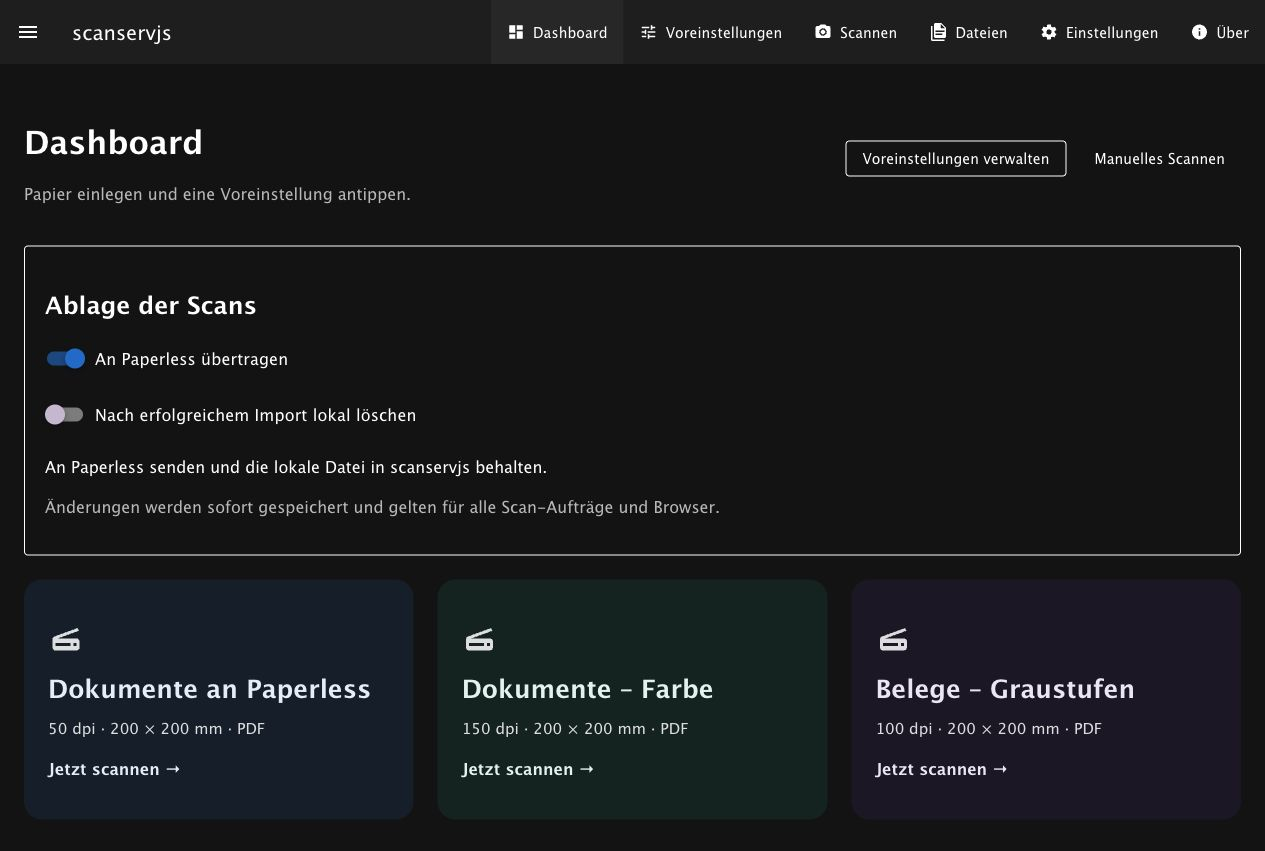
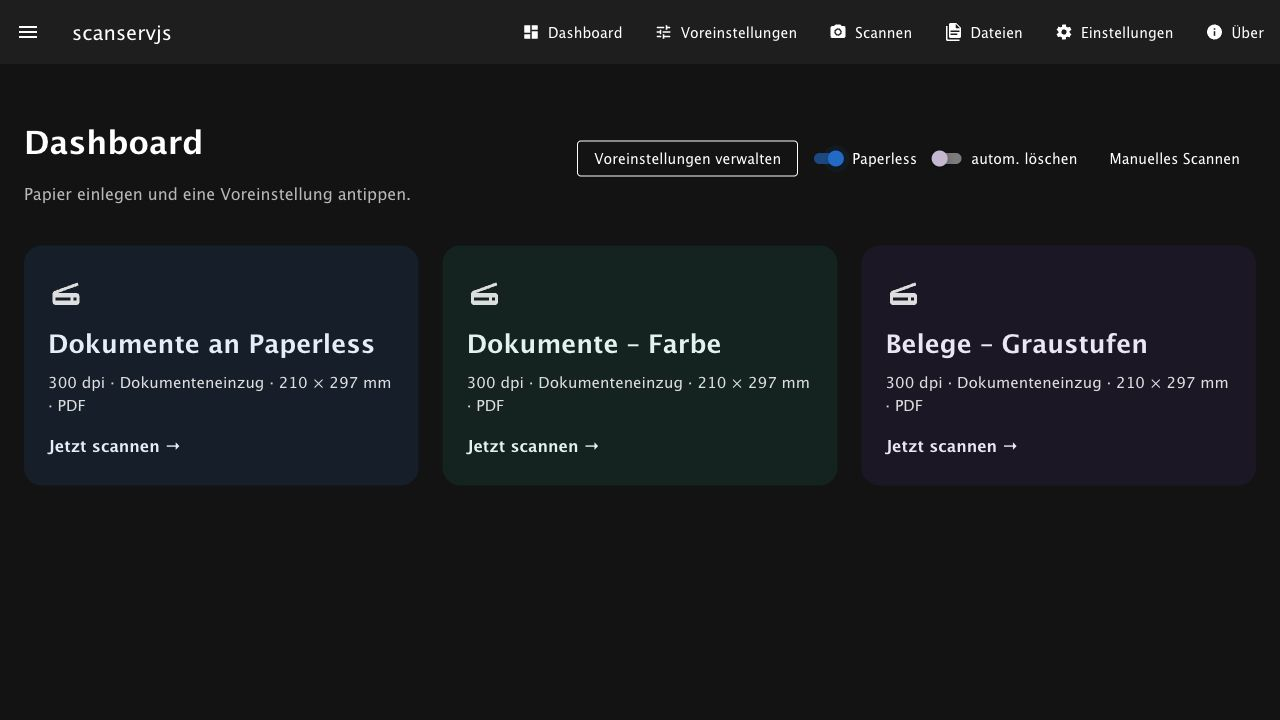
Compact dashboard Paperless toggles beside preset management

diff --git a/app-ui/src/components/Dashboard.vue b/app-ui/src/components/Dashboard.vue
@@ -6,27 +6,30 @@
         <p class="text-body-1 text-medium-emphasis">{{ $t('dashboard.description') }}</p>
       </div>
       <v-spacer />
-      <v-btn to="/presets" variant="outlined">{{ $t('dashboard.manage') }}</v-btn>
-      <v-btn to="/scan" variant="text">{{ $t('dashboard.manual') }}</v-btn>
+      <div class="dashboard-actions">
+        <v-btn to="/presets" variant="outlined">{{ $t('dashboard.manage') }}</v-btn>
+        <div v-if="paperless" class="dashboard-switches">
+          <v-switch :model-value="paperless.enabled" :label="$t('dashboard.transfer-toggle')"
+            :title="$t(!paperless.enabled ? 'dashboard.local-only' : paperless.deleteAfterTransfer ? 'dashboard.delete-help' : 'dashboard.keep-help')"
+            class="dashboard-switch" size="small" density="compact" color="primary" hide-details
+            :disabled="saving || scanJob.busy" @update:model-value="saveFlag('enabled', $event)" />
+          <v-switch :model-value="paperless.deleteAfterTransfer" :label="$t('dashboard.delete-toggle')"
+            :title="$t('dashboard.delete-help')"
+            class="dashboard-switch" size="small" density="compact" color="primary" hide-details
+            :disabled="saving || scanJob.busy || !paperless.enabled" @update:model-value="saveFlag('deleteAfterTransfer', $event)" />
+        </div>
+        <v-btn to="/scan" variant="text">{{ $t('dashboard.manual') }}</v-btn>
+      </div>
     </div>
 
     <v-alert v-if="loadError" type="error" class="mb-4">
       {{ loadError }} <v-btn variant="text" @click="load">{{ $t('dashboard.retry') }}</v-btn>
     </v-alert>
     <v-progress-linear v-if="loading" indeterminate class="mb-4" />
-    <v-card v-if="paperless" variant="outlined" class="pa-5 mb-6">
-      <h2 class="text-h6 mb-2">{{ $t('dashboard.paperless-title') }}</h2>
-      <v-switch :model-value="paperless.enabled" :label="$t('dashboard.transfer-toggle')"
-        color="primary" hide-details :disabled="saving || scanJob.busy" @update:model-value="saveFlag('enabled', $event)" />
-      <v-switch :model-value="paperless.deleteAfterTransfer" :label="$t('dashboard.delete-toggle')"
-        color="primary" hide-details :disabled="saving || scanJob.busy || !paperless.enabled" @update:model-value="saveFlag('deleteAfterTransfer', $event)" />
-      <p class="mt-3">{{ $t(!paperless.enabled ? 'dashboard.local-only' : paperless.deleteAfterTransfer ? 'dashboard.delete-help' : 'dashboard.keep-help') }}</p>
-      <p v-if="!paperless.tokenConfigured || !paperless.url" class="mt-2">
-        {{ $t('dashboard.configure-help') }} <router-link to="/settings">{{ $t('navigation.settings') }}</router-link>
-      </p>
-      <p class="text-body-2 text-medium-emphasis mt-2">{{ $t('dashboard.shared-help') }}</p>
-      <v-alert v-if="saveError" type="error" class="mt-3">{{ saveError }}</v-alert>
-    </v-card>
+    <v-alert v-if="paperless && (!paperless.tokenConfigured || !paperless.url)" type="info" variant="tonal" class="mb-4">
+      {{ $t('dashboard.configure-help') }} <router-link to="/settings">{{ $t('navigation.settings') }}</router-link>
+    </v-alert>
+    <v-alert v-if="saveError" type="error" class="mb-4">{{ saveError }}</v-alert>
     <v-card v-if="scanJob.stage !== 'idle'" class="pa-5 mb-6 progress-card" variant="outlined" role="status" aria-live="polite">
       <h2 class="text-h6 mb-2">{{ $t('progress.title') }}</h2>
       <div class="progress-status">{{ $t(`progress.${scanJob.stage}`) }}</div>
@@ -156,6 +159,9 @@ export default {
 </script>
 
 <style scoped>
+.dashboard-actions, .dashboard-switches { display: flex; align-items: center; flex-wrap: wrap; gap: 16px; }
+.dashboard-switch { flex: 0 0 auto; }
+.dashboard-switch :deep(.v-label) { font-size: 0.875rem; white-space: nowrap; }
 .progress-status { font-size: 1.35rem; font-weight: 600; }
 .progress-steps { display: flex; flex-wrap: wrap; gap: 20px; list-style: none; padding: 0; }
 .progress-steps li { opacity: 0.55; }

diff --git a/docs/32-dashboard.md b/docs/32-dashboard.md
@@ -19,10 +19,10 @@ abgeschlossener Scan, und die Oberfläche gibt den nächsten Versuch wieder frei
 
 ## Paperless direkt im Dashboard steuern
 
-Ab Version 3.3.3 enthält **Ablage der Scans** zwei Schalter:
+Ab Version 3.3.3 enthält das Dashboard zwei kompakte Schalter neben **Voreinstellungen verwalten**:
 
-- **An Paperless übertragen** aus: Neue Scans bleiben ausschließlich lokal unter **Dateien**.
-- Übertragung an und **Nach erfolgreichem Import lokal löschen** aus: Scans werden an Paperless gesendet und bleiben zusätzlich lokal erhalten.
+- **Paperless** aus: Neue Scans bleiben ausschließlich lokal unter **Dateien**.
+- Übertragung an und **autom. löschen** aus: Scans werden an Paperless gesendet und bleiben zusätzlich lokal erhalten.
 - Beide an: Die lokale Datei wird erst nach bestätigtem erfolgreichem Import gelöscht.
 
 Die Auswahl wird sofort serverseitig gespeichert, gilt auch für manuelle Scans

diff --git a/README.md b/README.md
@@ -16,7 +16,7 @@ das Abhängigkeiten installiert und den systemd-Dienst einrichtet.
 
 ![Dashboard mit Scan-Voreinstellungen und Schaltern für Paperless-Übertragung und lokale Aufbewahrung](docs/dashboard.png)
 
-Dashboard ab Version 3.3.3; Screenshot aus einer Testinstallation mit Beispiel-Voreinstellungen.
+Dashboard mit kompakten Paperless-Schaltern; Screenshot aus einer Testinstallation mit Beispiel-Voreinstellungen.
 
 Copyright 2016-2026 [Sam Strachan](https://github.com/sbs20)
 
